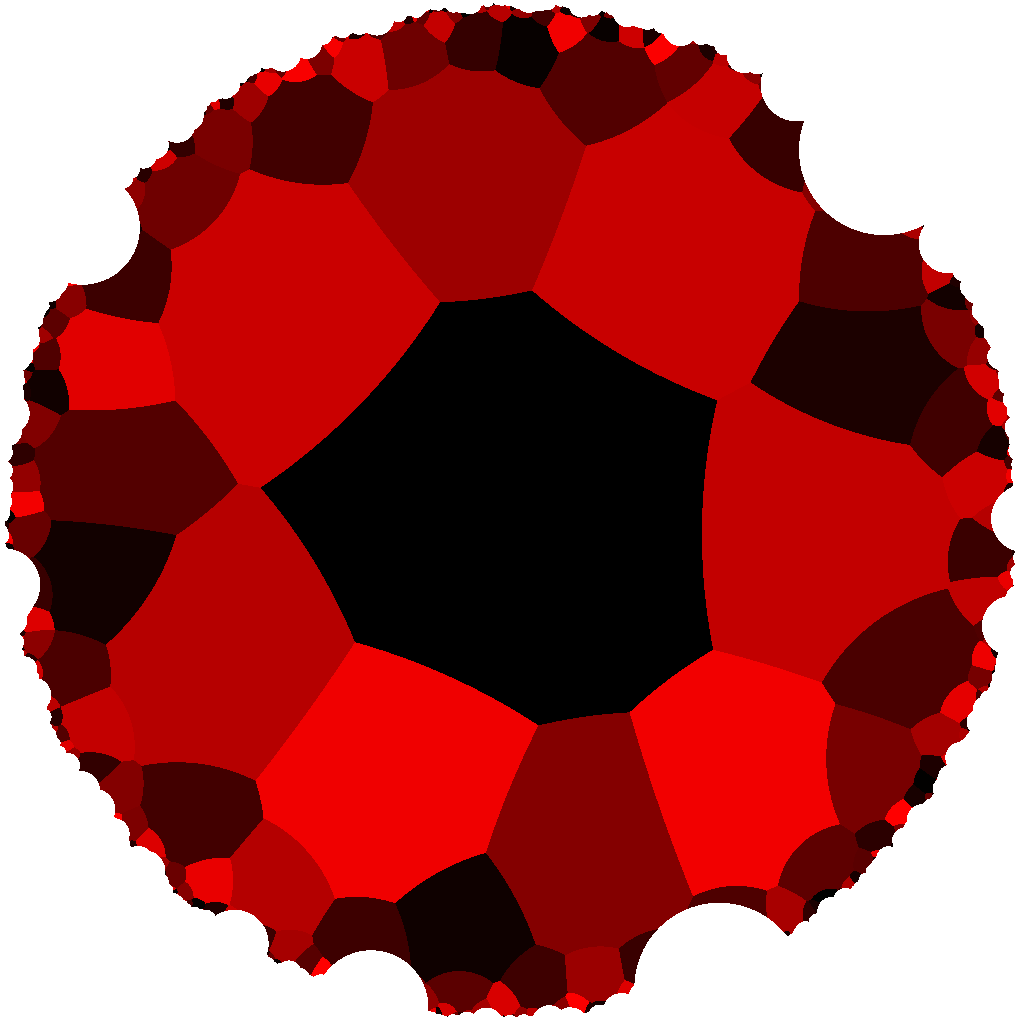
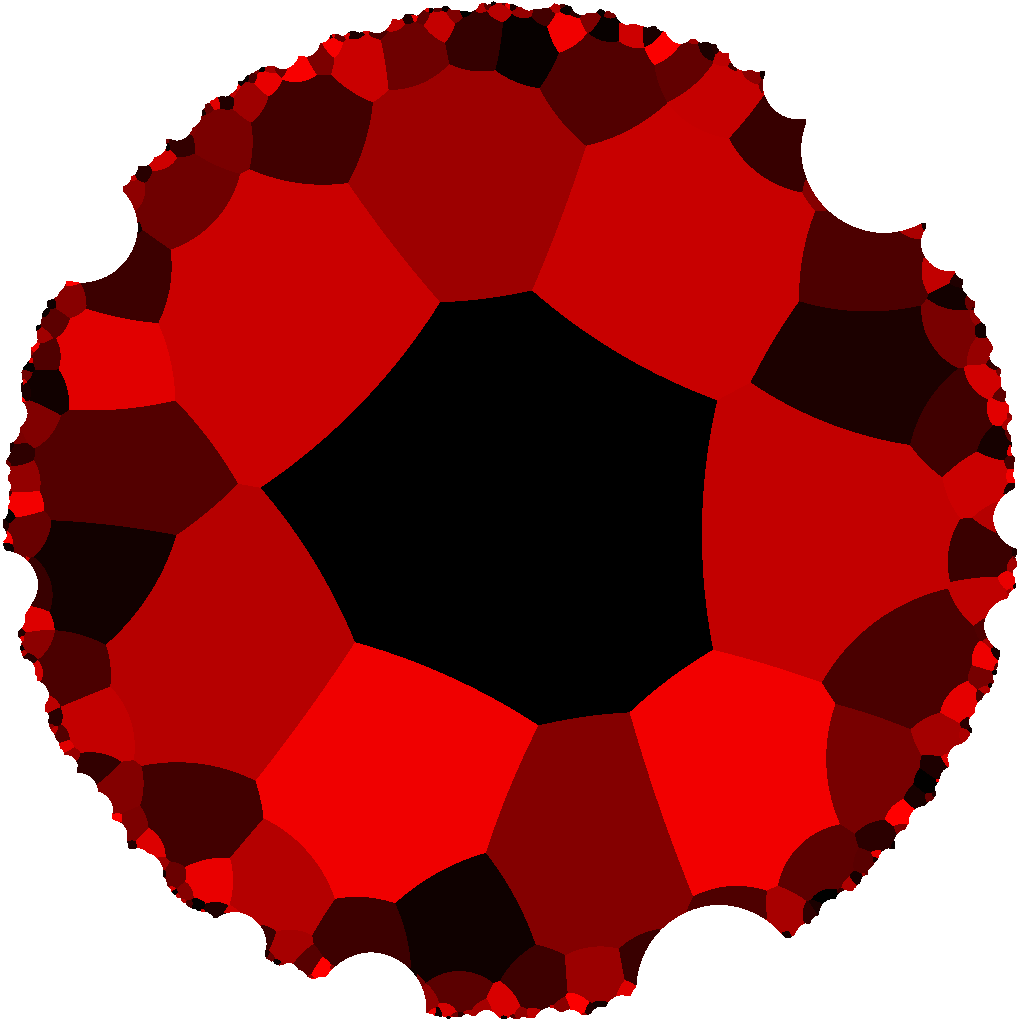
Per_7 / Per_8: chart lookup map with the boundary strip filled in
Claude-Session: https://claude.ai/code/session_01Y6MGbb7usVGkkvChoFyt1Z

diff --git a/js/shell.js b/js/shell.js
@@ -3,7 +3,7 @@
 'use strict';
 (async function () {
   const $ = s => document.getElementById(s);
-  const man = await fetch('models/manifest.json?v=20261111010753').then(r => r.json());
+  const man = await fetch('models/manifest.json?v=20261111025023').then(r => r.json());
   let cur = null, M = null, sel = null, frac = 0.55, FACTS = '';
   // ---- layout
   function layout() { const W = $('main').clientWidth, x = Math.round(W*frac);
@@ -26,7 +26,7 @@
     $('kind').textContent = ({ plane: 'parameter plane', torus: 'flat torus', hyperbolic: 'hyperbolic model' }[cur.kind] || '') +
       ` · genus ${I.genus} · ${I.centers} polynomial centers · ${I.punctures} punctures · ${I.circles} real circle${I.circles === 1 ? '' : 's'}` + (I.sheets ? ` · ${I.sheets} sheets over the y-line` : '');
     hideCard(); $('dover').style.display = 'none'; $('vin').style.display = 'none'; TREEP = null;
-    $('frame').src = cur.page + (cur.page.includes('?') ? '&' : '?') + 'v=20261111010753'; history.replaceState(null, '', '#' + id);
+    $('frame').src = cur.page + (cur.page.includes('?') ? '&' : '?') + 'v=20261111025023'; history.replaceState(null, '', '#' + id);
     M = null; sel = null; DRAYS = []; RAYA = []; $('dhint').style.display = ''; dv.redraw();
     FACTS = `Polynomials z² + c are labeled by the even numerator k of their characteristic angles k/(2^n − 1).\n${cur.titleText}: genus ${I.genus}, ${I.punctures} puncture${I.punctures === 1 ? '' : 's'}, ${I.centers} polynomial center${I.centers === 1 ? '' : 's'}, ${I.circles} real circle${I.circles === 1 ? '' : 's'}${I.sheets ? ', ' + I.sheets + ' sheets over the y-line' : ''}.\n${I.tiling || ''}`;
     $('status').textContent = FACTS + `\n${cur.kind === 'hyperbolic' ? 'The model loads in the left pane (tens of MB; the first load can take a while), then click a point.' : 'Click a parameter.'}`;

diff --git a/index.html b/index.html
@@ -43,13 +43,13 @@
             font:12px/1.5 ui-monospace, Menlo, monospace; padding:4px 10px; box-sizing:border-box; overflow:auto; white-space:pre; }
   button.sm { font:inherit; padding:0 6px; border:1px solid #bbb; background:#fff; border-radius:4px; cursor:pointer; }
 </style>
-<script src="js/pern_math.js?v=20261111010753"></script>
-<script src="js/glsl.js?v=20261111010753"></script>
-<script src="js/planeview.js?v=20261111010753"></script>
-<script src="js/mating.js?v=20261111010753"></script>
-<script src="js/capture.js?v=20261111010753"></script>
-<script src="js/tree.js?v=20261111010753"></script>
-<script src="js/spheres.js?v=20261111010753"></script>
+<script src="js/pern_math.js?v=20261111025023"></script>
+<script src="js/glsl.js?v=20261111025023"></script>
+<script src="js/planeview.js?v=20261111025023"></script>
+<script src="js/mating.js?v=20261111025023"></script>
+<script src="js/capture.js?v=20261111025023"></script>
+<script src="js/tree.js?v=20261111025023"></script>
+<script src="js/spheres.js?v=20261111025023"></script>
 </head>
 <body>
 <div id="top"><h1>Per<sub>n</sub>(0) atlas</h1><div id="models"></div><span id="kind"></span></div>
@@ -98,6 +98,6 @@
   component of f; the second critical value is moved along that ray to the component's center. If the landing point lies on several components they are listed in the status line; pick one with “component #”.
   Type f, Tab, θ, Enter. Esc closes.</div></div>
 <div id="status">Choose a model, then click a parameter.</div>
-<script src="js/shell.js?v=20261111010753"></script>
+<script src="js/shell.js?v=20261111025023"></script>
 </body>
 </html>

diff --git a/plane.html b/plane.html
@@ -28,9 +28,9 @@
   details summary { cursor:pointer; color:var(--muted); }
   .nf { font-size:12px; background:#fff; border:1px solid var(--faint); padding:4px 6px; margin:4px 0; }
 </style>
-<script src="js/pern_math.js?v=20261111010753"></script>
-<script src="js/glsl.js?v=20261111010753"></script>
-<script src="js/planeview.js?v=20261111010753"></script>
+<script src="js/pern_math.js?v=20261111025023"></script>
+<script src="js/glsl.js?v=20261111025023"></script>
+<script src="js/planeview.js?v=20261111025023"></script>
 </head>
 <body>
 <div id="view"></div>
@@ -77,7 +77,7 @@
     <div id="mlist"></div></details>
   <details><summary>What this is</summary><div id="about" class="sub"></div></details>
 </div>
-<script src="js/bitri.js?v=20261111010753"></script>
-<script src="js/plane.js?v=20261111010753"></script>
+<script src="js/bitri.js?v=20261111025023"></script>
+<script src="js/plane.js?v=20261111025023"></script>
 </body>
 </html>

diff --git a/js/plane.js b/js/plane.js
@@ -2,9 +2,9 @@
 'use strict';
 (async function () {
   const id = new URLSearchParams(location.search).get('m') || 'per1';
-  const man = await fetch('models/manifest.json?v=20261111010753').then(r => r.json());
+  const man = await fetch('models/manifest.json?v=20261111025023').then(r => r.json());
   const E = man.models.find(m => m.id === id);
-  const C = await fetch(E.census + '?v=20261111010753').then(r => r.json());
+  const C = await fetch(E.census + '?v=20261111025023').then(r => r.json());
   const torus = E.kind === 'torus', T5 = PM.T5;
   const $ = s => document.getElementById(s);
   $('title').innerHTML = E.title; $('nf').innerHTML = E.normal; $('about').innerHTML = E.about || '';

diff --git a/models/per7/index.html b/models/per7/index.html
@@ -31,8 +31,8 @@
   #mlist div { padding:2px 6px; cursor:pointer; border-bottom:1px solid #f0f0ec; white-space:nowrap; overflow:hidden; text-overflow:ellipsis; }
   #mlist div:hover { background:#eef3ff; }
 </style>
-<script src="conformal_data.js?v=20261111010753"></script>
-<script src="per7_core.js?v=20261111010753"></script>
+<script src="conformal_data.js?v=20261111025023"></script>
+<script src="per7_core.js?v=20261111025023"></script>
 </head>
 <body>
 <div id="view"><canvas id="gl"></canvas><canvas id="ov"></canvas><div id="load">Loading…</div><div id="card"><button id="cardx" title="close">&times;</button><div id="cardt"></div></div></div>

diff --git a/models/per8/index.html b/models/per8/index.html
@@ -31,8 +31,8 @@
   #mlist div { padding:2px 6px; cursor:pointer; border-bottom:1px solid #f0f0ec; white-space:nowrap; overflow:hidden; text-overflow:ellipsis; }
   #mlist div:hover { background:#eef3ff; }
 </style>
-<script src="conformal_data.js?v=20261111010753"></script>
-<script src="per8_core.js?v=20261111010753"></script>
+<script src="conformal_data.js?v=20261111025023"></script>
+<script src="per8_core.js?v=20261111025023"></script>
 </head>
 <body>
 <div id="view"><canvas id="gl"></canvas><canvas id="ov"></canvas><div id="load">Loading…</div><div id="card"><button id="cardx" title="close">&times;</button><div id="cardt"></div></div></div>

diff --git a/models/per6/index.html b/models/per6/index.html
@@ -23,8 +23,8 @@
   #mini { width:316px; height:316px; display:block; border:1px solid var(--faint); background:#fff; cursor:crosshair; }
   #load { position:absolute; left:20px; top:20px; color:var(--muted); }
 </style>
-<script src="conformal_data.js?v=20261111010753"></script>
-<script src="per6_core.js?v=20261111010753"></script>
+<script src="conformal_data.js?v=20261111025023"></script>
+<script src="per6_core.js?v=20261111025023"></script>
 </head>
 <body>
 <div id="view"><canvas id="gl"></canvas><canvas id="ov"></canvas><div id="load">Loading…</div></div>
